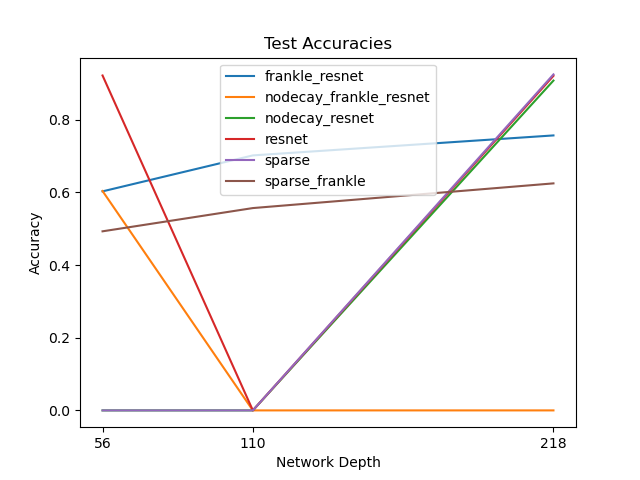
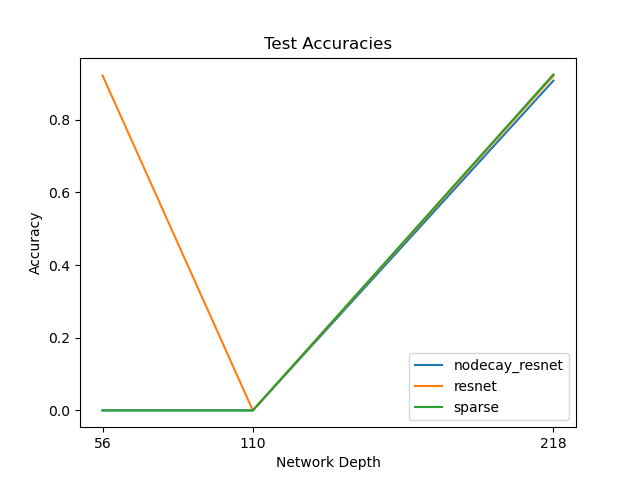
split graphs by type

diff --git a/src/graph.py b/src/graph.py
@@ -31,7 +31,7 @@ def plot_acc_curve(stat, out):
     plt.savefig(out)
     plt.clf()
 
-def plot_final_accs_curve(stats, out, exp_types):
+def plot_final_accs_curve(stats, out, exp_types, title):
     all_accs = []
     for stat in stats:
         exp_accs = []
@@ -42,10 +42,8 @@ def plot_final_accs_curve(stats, out, exp_types):
             except:
                 exp_accs.append(0)
         all_accs.append(exp_accs)
-    print(all_accs)
-    print(exp_types)
-    plot_final_accuracy(all_accs, exp_types)
-    out = join(out, "accuracy.png")
+
+    plot_final_accuracy(all_accs, exp_types, title)
     plt.savefig(out)
     plt.clf()
 
@@ -74,10 +72,12 @@ if __name__ == "__main__":
 
     weights_roots = []
     logs_roots = []
-    final_stats_roots = []
+    final_stats_base = []
+    final_stats_frankle = []
     weights_roots = []
     graphs_roots = []
-    exp_types = []
+    exp_types_base = []
+    exp_types_frankle = []
     rootdir = args.experiments
     for file in os.listdir(rootdir):
         d = os.path.join(rootdir, file)
@@ -86,12 +86,17 @@ if __name__ == "__main__":
             exp_type = (os.path.basename(os.path.normpath(d)))
             exp_type = re.findall('([a-zA-Z\_ ]*)\d*.*',exp_type)
             exp_type = (exp_type[0][:-1])
-            exp_types.append(exp_type)
+            if "frankle" in exp_type:
+                exp_types_frankle.append(exp_type)
+            else:
+                exp_types_base.append(exp_type)
 
     exp_folders = []
 
-    exp_types = list(dict.fromkeys(exp_types))
-    for exp_type in exp_types:
+    exp_types_base = list(dict.fromkeys(exp_types_base))
+    exp_types_frankle = list(dict.fromkeys(exp_types_frankle))
+
+    for exp_type in exp_types_base:
         exp_56 = exp_type + "_56_cifar10"
         exp_110 = exp_type + "_110_cifar10"
         exp_218 = exp_type + "_218_cifar10"
@@ -101,11 +106,21 @@ if __name__ == "__main__":
         stats.append("experiments/"+ exp_56 + "/logs/final_test_stats.csv")
         stats.append("experiments/"+ exp_110 + "/logs/final_test_stats.csv")
         stats.append("experiments/"+ exp_218 + "/logs/final_test_stats.csv")
-        final_stats_roots.append(stats)
+        final_stats_base.append(stats)
 
+    for exp_type in exp_types_frankle:
+        exp_56 = exp_type + "_56_cifar10"
+        exp_110 = exp_type + "_110_cifar10"
+        exp_218 = exp_type + "_218_cifar10"
+        exps = [exp_56, exp_110, exp_218]
+        stats = []
             
-            # 
-    #err_if_none_arg(args.out,"out")
+        stats.append("experiments/"+ exp_56 + "/logs/final_test_stats.csv")
+        stats.append("experiments/"+ exp_110 + "/logs/final_test_stats.csv")
+        stats.append("experiments/"+ exp_218 + "/logs/final_test_stats.csv")
+        final_stats_frankle.append(stats)
+            
+
     
     experiment_root = join(args.experiments,args.experiment_name)
     
@@ -128,7 +143,8 @@ if __name__ == "__main__":
         plot_loss_curve(stats, graphs_root)
 
     if args.experiment_name == "all" and args.graph_type == "all_acc":
-        plot_final_accs_curve(final_stats_roots, graphs_root, exp_types)
+        plot_final_accs_curve(final_stats_base, join(graphs_root, "resnet_accs.png"), exp_types_base, "Accuracies for Resnet Models")
+        plot_final_accs_curve(final_stats_frankle, join(graphs_root, "frankle_accs.png"), exp_types_frankle, "Accuracies for Frankle (Frozen) Models")
 
     if args.show:
         plt.show()

diff --git a/src/vis/__init__.py b/src/vis/__init__.py
@@ -69,21 +69,25 @@ def plot_accuracy(train_accs, val_accs):
     plt.xlabel("Epoch")
     plt.ylabel("Accuracy")
 
-def plot_final_accuracy(test_accs, exp_types):
+def plot_final_accuracy(test_accs, exp_types, title):
     
     depths = [56, 110, 218]
     print(test_accs)
     for i in range(len(exp_types)):
-        
-        plt.plot(depths,
-                test_accs[i],
-                    label=exp_types[i])
+        color = "blue"
+        if "nodecay" in exp_types[i]:
+            color = "orange"
+        elif "sparse" in exp_types[i]:
+            color = "green"
+        plt.plot(depths, test_accs[i], label=exp_types[i], linewidth = 2, color = color)
 
     plt.legend()
     plt.xticks(depths)
     plt.title('Test Accuracies')
     plt.xlabel("Network Depth")
     plt.ylabel("Accuracy")
+    plt.tight_layout()
+    plt.title(title)
 
 def plot_loss(train_loss, val_loss):
     
